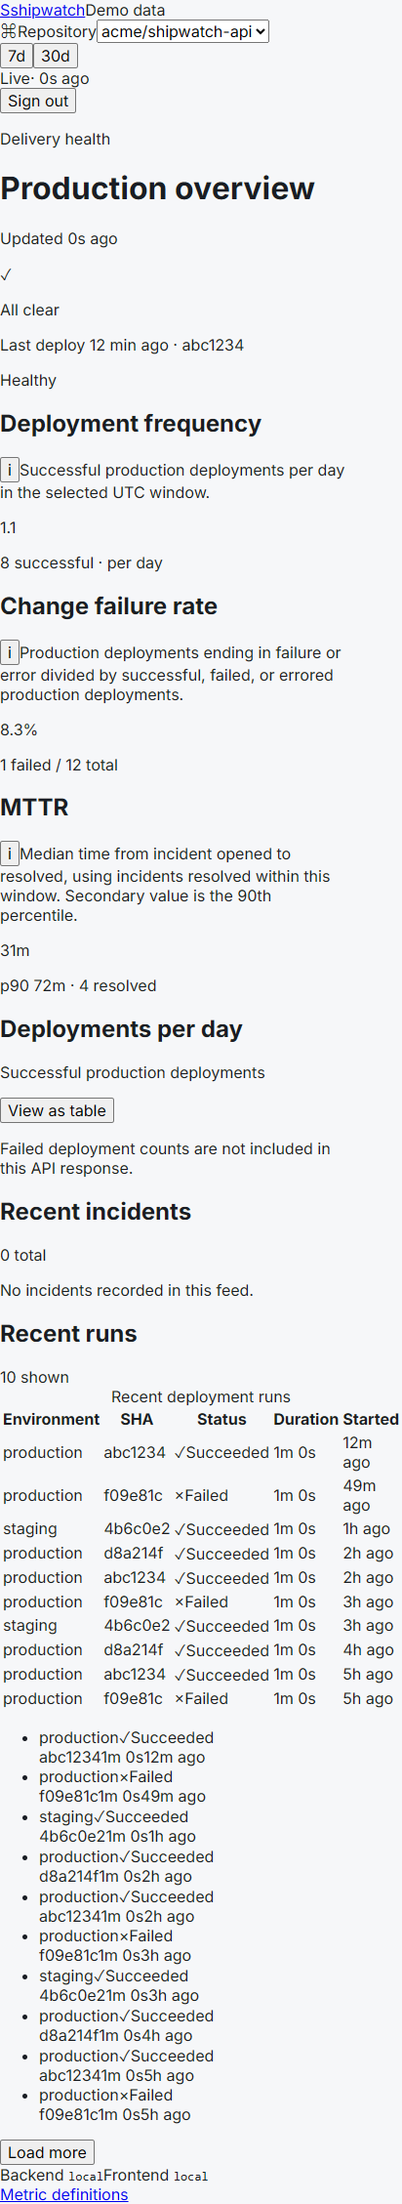
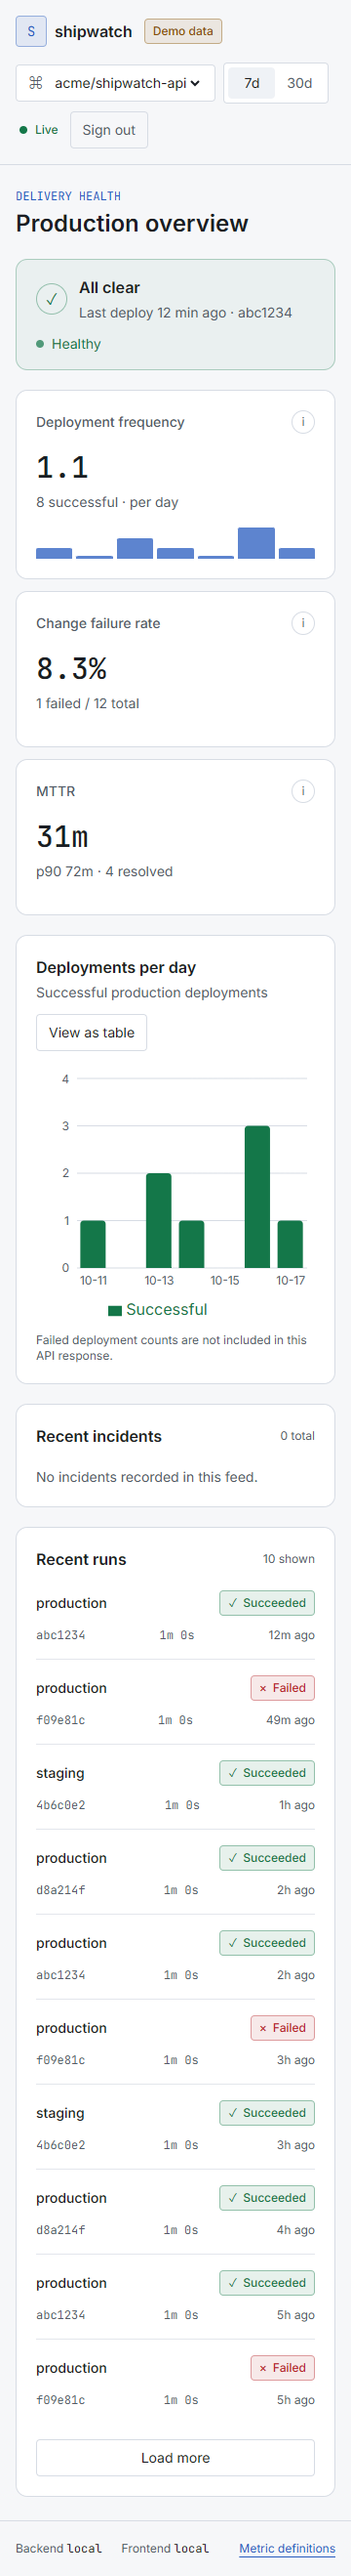
Refactor code structure for improved readability and maintainability

Changed region(s): [[0.0, 0.0, 1.0, 1.0], [0.825, 0.9615, 0.8556, 0.9925]]

diff --git a/frontend/src/pages/Dashboard.tsx b/frontend/src/pages/Dashboard.tsx
@@ -53,14 +53,14 @@ function DashboardContent() {
   const stale = hasCachedData && (repos.isError || metrics.isError || incidents.isError || runs.isError);
   const retry = () => { void repos.refetch(); void metrics.refetch(); void incidents.refetch(); void runs.refetch(); };
 
-  if (repos.isLoading) return <main className="mx-auto max-w-7xl space-y-6 p-4 sm:p-6"><Skeletons /></main>;
+  if (repos.isLoading) return <Skeletons />;
   if (repos.error instanceof ApiError && repos.error.status === 401) return <TokenGate unauthorized={Boolean(getDashboardToken())} onSaved={() => window.location.reload()} />;
   if (repos.error instanceof ConfigError) return <ConfigErrorScreen onRetry={retry} />;
   if (repos.isError) return <main className="grid min-h-screen place-items-center p-6"><MetricError onRetry={retry} /></main>;
   if (!repos.data?.length) return <main className="mx-auto max-w-7xl space-y-6 p-4 sm:p-6"><header><p className="font-mono text-xs uppercase text-accent">Delivery health</p><h1 className="mt-2 text-2xl font-semibold">Shipwatch</h1></header><EmptyState /></main>;
 
   const data = metrics.data;
-  if (!data && metrics.isLoading) return <main className="mx-auto max-w-7xl space-y-6 p-4 sm:p-6"><Skeletons /></main>;
+  if (!data && metrics.isLoading) return <Skeletons />;
   if (!data && metrics.error instanceof ApiError && metrics.error.status === 401) return <TokenGate unauthorized onSaved={() => window.location.reload()} />;
   if (!data && metrics.error instanceof ConfigError) return <ConfigErrorScreen onRetry={retry} />;
   if (!data && metrics.isError) return <main className="mx-auto max-w-7xl p-4 sm:p-6"><MetricError onRetry={retry} /></main>;
@@ -80,12 +80,12 @@ function DashboardContent() {
     </header>
     <main id="dashboard" className="mx-auto max-w-7xl space-y-5 px-4 py-6 sm:px-6 sm:py-8">
       <div className="flex items-end justify-between gap-4"><div><p className="font-mono text-xs uppercase text-accent">Delivery health</p><h1 className="mt-1 text-2xl font-semibold">Production overview</h1></div><p className="hidden text-xs text-muted sm:block">Updated {formatRefreshTime(data.generatedAt)}</p></div>
-      {stale && <StaleBanner onRetry={retry} />}
-      <StatusHero incidents={incidentList} runs={runList} />
+      {stale && <StaleBanner onRetry={retry} updatedAt={metrics.dataUpdatedAt} />}
+      <StatusHero incidents={incidentList} runs={runList} productionEnvironment={repos.data.find((repo) => repo.id === selected)?.productionEnvironment ?? "production"} />
       {metrics.isError && !stale && <MetricError onRetry={retry} />}
       {data.deploymentFrequency.total === 0 && runList.length === 0 && incidentList.length === 0 && <EmptyState />}
       <section aria-label="Delivery metrics" className="grid gap-3 md:grid-cols-3">
-        <MetricCard title="Deployment frequency" value={frequencyHasData ? `${(data.deploymentFrequency.total / (selectedWindow === "7d" ? 7 : 30)).toFixed(1)}` : "—"} secondary={frequencyHasData ? `${data.deploymentFrequency.total} successful · per day` : "No data in this window"} definition="Successful production deployments per day in the selected UTC window." trend={data.deploymentFrequency.perDay.map((day) => day.count)} />
+        <MetricCard title="Deployment frequency" value={frequencyHasData ? `${(data.deploymentFrequency.total / (selectedWindow === "7d" ? 7 : 30)).toFixed(1)} / day` : "—"} secondary={frequencyHasData ? `${data.deploymentFrequency.total} successful deployments` : "No data in this window"} definition="Successful production deployments per day in the selected UTC window." trend={data.deploymentFrequency.perDay.map((day) => day.count)} />
         <MetricCard title="Change failure rate" value={failureHasData ? `${(data.changeFailureRate.value! * 100).toFixed(1)}%` : "—"} secondary={failureHasData ? `${data.changeFailureRate.failed} failed / ${data.changeFailureRate.total} total` : "No data in this window"} definition="Production deployments ending in failure or error divided by successful, failed, or errored production deployments." />
         <MetricCard title="MTTR" value={mttrHasData ? median : "—"} secondary={mttrHasData ? `p90 ${data.mttr.p90Seconds === null ? "—" : `${Math.round(data.mttr.p90Seconds / 60)}m`} · ${data.mttr.resolvedCount} resolved` : "No data in this window"} definition="Median time from incident opened to resolved, using incidents resolved within this window. Secondary value is the 90th percentile." />
       </section>

diff --git a/frontend/src/components/StatusHero.tsx b/frontend/src/components/StatusHero.tsx
@@ -6,10 +6,10 @@ function ageLabel(seconds: number): string {
   return minutes < 60 ? `${minutes} min` : `${Math.floor(minutes / 60)}h ${minutes % 60}m`;
 }
 
-export function StatusHero({ incidents, runs }: { incidents: Incident[]; runs: Run[] }) {
-  const openIncident = incidents.find((incident) => incident.status === "open" || incident.status === undefined);
-  const failedRun = runs.find((run) => run.state === "failure" || run.state === "error");
-  const successfulRun = runs.find((run) => run.state === "success");
+export function StatusHero({ incidents, runs, productionEnvironment }: { incidents: Incident[]; runs: Run[]; productionEnvironment: string }) {
+  const openIncident = incidents.find((incident) => incident.environment === productionEnvironment && (incident.status === "open" || incident.status === undefined));
+  const failedRun = runs.find((run) => run.environment === productionEnvironment && (run.state === "failure" || run.state === "error"));
+  const successfulRun = runs.find((run) => run.environment === productionEnvironment && run.state === "success");
   return openIncident ? (
     <section aria-live="polite" className="flex flex-wrap items-center justify-between gap-3 rounded-console border border-danger/40 bg-danger/10 px-5 py-4">
       <div className="flex items-center gap-3"><span aria-hidden="true" className="grid h-8 w-8 place-items-center rounded-full border border-danger/50 text-danger">!</span><div><p className="font-semibold text-danger">Production incident open for {ageLabel(openIncident.ageSeconds)}</p><p className="mt-1 text-sm text-muted">{openIncident.environment} is affected{failedRun?.sha ? ` · failing ${failedRun.sha.slice(0, 7)}` : ""}</p></div></div>

diff --git a/frontend/src/components/LoadingState.tsx b/frontend/src/components/LoadingState.tsx
@@ -3,11 +3,15 @@ function Skeleton({ className }: { className: string }) {
 }
 
 export function Skeletons() {
-  return <div aria-label="Loading dashboard" role="status" className="space-y-6">
-    <Skeleton className="h-20" />
-    <div className="grid gap-3 md:grid-cols-3"><Skeleton className="h-40" /><Skeleton className="h-40" /><Skeleton className="h-40" /></div>
-    <Skeleton className="h-80" />
-    <div className="grid gap-3 lg:grid-cols-2"><Skeleton className="h-64" /><Skeleton className="h-64" /></div>
-    <span className="sr-only">Loading dashboard data</span>
+  return <div className="min-h-screen bg-background">
+    <header aria-label="Loading dashboard navigation" className="border-b border-border"><div className="mx-auto flex min-h-16 max-w-7xl flex-wrap items-center justify-between gap-4 px-4 py-4 sm:px-6"><Skeleton className="h-8 w-36" /><div className="flex flex-wrap gap-3"><Skeleton className="h-10 w-48" /><Skeleton className="h-10 w-24" /><Skeleton className="h-10 w-20" /></div></div></header>
+    <main aria-label="Loading dashboard" role="status" className="mx-auto max-w-7xl space-y-6 px-4 py-6 sm:px-6 sm:py-8">
+      <Skeleton className="h-12" />
+      <Skeleton className="h-20" />
+      <div className="grid gap-3 md:grid-cols-3"><Skeleton className="h-40" /><Skeleton className="h-40" /><Skeleton className="h-40" /></div>
+      <Skeleton className="h-80" />
+      <div className="grid gap-3 lg:grid-cols-2"><Skeleton className="h-64" /><Skeleton className="h-64" /></div>
+      <span className="sr-only">Loading dashboard data</span>
+    </main>
   </div>;
 }

diff --git a/frontend/e2e/dashboard.spec.ts b/frontend/e2e/dashboard.spec.ts
@@ -16,8 +16,15 @@ test("demo dashboard is responsive and accessible", async ({ page }) => {
     await expect(page.getByRole("heading", { name: "Production overview" })).toBeVisible();
     await expect(page.getByRole("heading", { name: "Recent runs" })).toBeVisible();
     await page.screenshot({ path: resolve(screenshots, `dashboard-${width}.png`), fullPage: true });
-    const hasHorizontalOverflow = await page.locator("html").evaluate((element) => element.scrollWidth > window.innerWidth);
-    expect(hasHorizontalOverflow, `horizontal overflow at ${width}px`).toBe(false);
+    const dimensions = await page.locator("html").evaluate((element) => ({
+      document: element.scrollWidth,
+      viewport: window.innerWidth,
+      offenders: Array.from(document.querySelectorAll("body *"))
+        .filter((child) => child.getBoundingClientRect().right > window.innerWidth)
+        .slice(0, 5)
+        .map((child) => ({ tag: child.tagName, className: child.className, right: child.getBoundingClientRect().right }))
+    }));
+    expect(dimensions.document <= dimensions.viewport, `horizontal overflow at ${width}px: ${JSON.stringify(dimensions)}`).toBe(true);
   }
   const accessibility = await new AxeBuilder({ page }).withTags(["wcag2a", "wcag2aa", "wcag21a", "wcag21aa"]).analyze();
   expect(accessibility.violations).toEqual([]);

diff --git a/frontend/src/pages/Dashboard.test.tsx b/frontend/src/pages/Dashboard.test.tsx
@@ -55,7 +55,7 @@ describe("dashboard states", () => {
     renderDashboard();
     expect(await screen.findByRole("heading", { name: "Production overview" })).toBeInTheDocument();
     expect(screen.getByText("All clear")).toBeInTheDocument();
-    expect(screen.getByText("1.0")).toBeInTheDocument();
+    expect(screen.getByText("1.0 / day")).toBeInTheDocument();
     expect(screen.getByText("10.0%")).toBeInTheDocument();
     expect(screen.getByText("30m")).toBeInTheDocument();
     await user.click(await screen.findByRole("button", { name: "View as table" }, { timeout: 5000 }));
@@ -69,7 +69,7 @@ describe("dashboard states", () => {
     expect(await screen.findByRole("heading", { name: "Production overview" })).toBeInTheDocument();
     server.use(http.get(`${base}/repos/:id/metrics`, () => HttpResponse.json({ error: "unavailable" }, { status: 503 })));
     await client.refetchQueries({ queryKey: ["metrics"] });
-    expect(await screen.findByText("Showing data from 2m ago, reconnecting…")).toBeInTheDocument();
+    expect(await screen.findByText(/Showing data from .* ago, reconnecting…/)).toBeInTheDocument();
     expect(screen.getByText("10.0%")).toBeInTheDocument();
   });
 

diff --git a/frontend/src/components/StaleBanner.tsx b/frontend/src/components/StaleBanner.tsx
@@ -1,3 +1,5 @@
-export function StaleBanner({ onRetry }: { onRetry: () => void }) {
-  return <div role="status" className="flex flex-wrap items-center justify-between gap-3 rounded-console border border-warning/50 bg-warning/10 px-4 py-3 text-sm"><p><span aria-hidden="true">◷ </span>Showing data from 2m ago, reconnecting…</p><button type="button" className="rounded border border-warning/50 px-3 py-1.5 hover:bg-warning/10" onClick={onRetry}>Retry now</button></div>;
+export function StaleBanner({ onRetry, updatedAt }: { onRetry: () => void; updatedAt: number }) {
+  const seconds = Math.max(0, Math.floor((Date.now() - updatedAt) / 1000));
+  const age = seconds < 60 ? `${seconds}s` : seconds < 3600 ? `${Math.floor(seconds / 60)}m` : `${Math.floor(seconds / 3600)}h`;
+  return <div role="status" className="flex flex-wrap items-center justify-between gap-3 rounded-console border border-warning/50 bg-warning/10 px-4 py-3 text-sm"><p><span aria-hidden="true">◷ </span>Showing data from {age} ago, reconnecting…</p><button type="button" className="rounded border border-warning/50 px-3 py-1.5 hover:bg-warning/10" onClick={onRetry}>Retry now</button></div>;
 }

diff --git a/frontend/index.html b/frontend/index.html
@@ -3,7 +3,6 @@
   <head>
     <meta charset="UTF-8" />
     <meta name="viewport" content="width=device-width, initial-scale=1.0" />
-    <meta name="theme-color" content="#0B0D10" />
     <link rel="preconnect" href="https://fonts.googleapis.com" />
     <link rel="preconnect" href="https://fonts.gstatic.com" crossorigin />
     <link href="https://fonts.googleapis.com/css2?family=Inter:wght@400;500;600;700&family=JetBrains+Mono:wght@400;500;600&display=swap" rel="stylesheet" />
